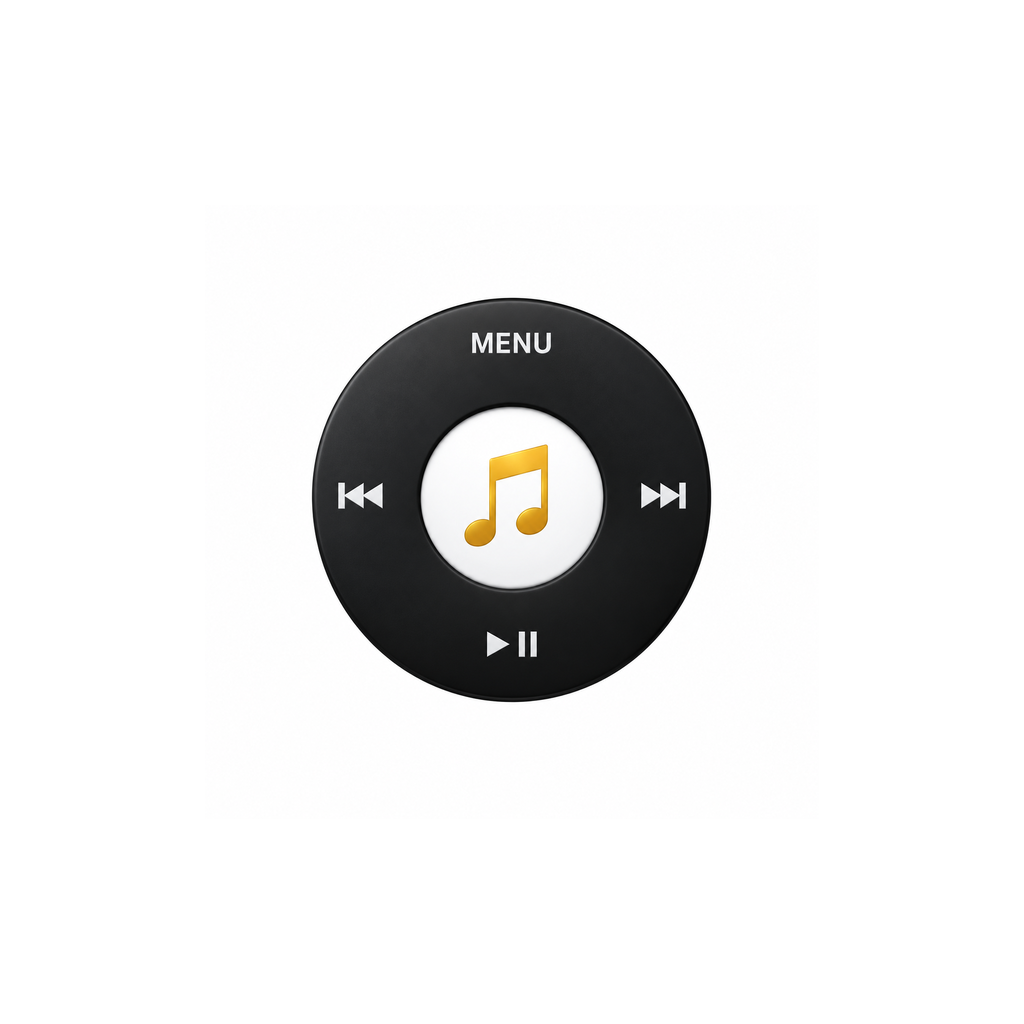
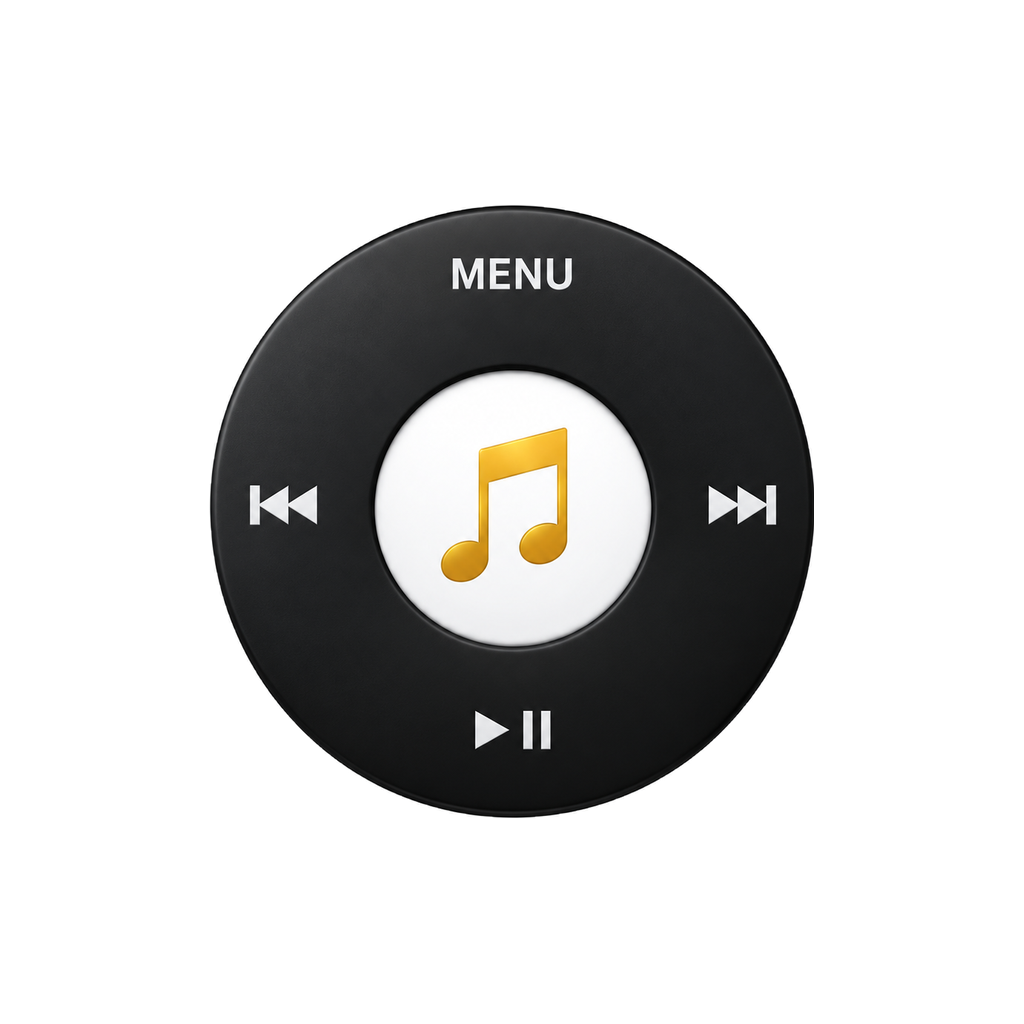
fix(brand): 修正图标抠图（PIL floodfill 的 thresh 语义导致背景未清除）
现象：开屏出现一块方形白框 —— 自适应前景/开屏图标的外层背景没有被抠掉。

根因：ImageDraw.floodfill 的 thresh 是相对**填充值**而不是种子值，
种子 255、填充值 128、thresh 70 时区间为 58..198，掩膜里只有 0/255，
于是**一个像素都没填充**（实测填充数 = 0），背景原样保留。

改为自己实现「与边界连通的浅色区域」提取：候选 = luma > 198，
做形态学重建（迭代膨胀 ∩ 候选）直到收敛；为免上千次全尺寸迭代，
在 1/4 分辨率上收敛后再放回全分辨率并用亮度约束收边。

校验：开屏图不透明像素占画布 66.2%（= 直径 92% 的圆面积），前景图 28.1%
（= 直径 60% 的圆面积），四角 alpha 均为 0 —— 是圆而不是方框。

Changed region(s): [[0.1875, 0.1875, 0.8125, 0.8125]]

diff --git a/scripts/prepare-app-icon.py b/scripts/prepare-app-icon.py
@@ -36,24 +36,59 @@ FOREGROUND_RATIO = 0.60
 SPLASH_RATIO = 0.92
 
 
+def _luma(rgb: np.ndarray) -> np.ndarray:
+    return 0.299 * rgb[..., 0] + 0.587 * rgb[..., 1] + 0.114 * rgb[..., 2]
+
+
+def outer_background_mask(rgb: np.ndarray, scale: int = 4) -> np.ndarray:
+    """求「与画布边界连通的浅色背景」掩膜。
+
+    不能用 PIL 的 ImageDraw.floodfill：它的 thresh 是相对**填充值**而不是种子值
+    （实测填充 0 像素）。这里用形态学重建（迭代膨胀 ∩ 候选）自己实现，
+    并在 1/scale 分辨率上做，避免上千次全尺寸迭代。
+    """
+    h, w = rgb.shape[:2]
+    lum = _luma(rgb)
+    small = np.asarray(
+        Image.fromarray(lum.astype(np.uint8), mode="L").resize(
+            (max(1, w // scale), max(1, h // scale)), Image.BILINEAR
+        )
+    ).astype(np.float32)
+    cand = small > 198
+
+    cur = np.zeros_like(cand)
+    cur[0, :] |= cand[0, :]
+    cur[-1, :] |= cand[-1, :]
+    cur[:, 0] |= cand[:, 0]
+    cur[:, -1] |= cand[:, -1]
+    while True:
+        nxt = cur.copy()
+        nxt[1:, :] |= cur[:-1, :]
+        nxt[:-1, :] |= cur[1:, :]
+        nxt[:, 1:] |= cur[:, :-1]
+        nxt[:, :-1] |= cur[:, 1:]
+        nxt &= cand
+        if np.array_equal(nxt, cur):
+            break
+        cur = nxt
+
+    grown = np.asarray(
+        Image.fromarray((cur * 255).astype(np.uint8), mode="L").resize((w, h), Image.NEAREST)
+    )
+    # 放回全分辨率后再用亮度约束一次，避免膨胀溢出到主体边缘
+    return (grown > 127) & (lum > 190)
+
+
 def cut_out_background(img: Image.Image) -> Image.Image:
-    """把从画布边缘连通的白色背景抠成透明（内部白色保持不变）。"""
+    """把与画布边缘连通的浅色背景（含柔和投影）抠成透明，内部白色一律保留。"""
     rgba = img.convert("RGBA")
-    arr = np.asarray(rgba).astype(np.int16)
-    near_white = (arr[..., :3].min(axis=2) > 242).astype(np.uint8) * 255
+    arr = np.asarray(rgba)
+    outside = outer_background_mask(arr[..., :3].astype(np.float32))
 
-    mask = Image.fromarray(near_white, mode="L")
-    # 从四角泛洪，只标记与外边界连通的白色区域
-    for xy in ((0, 0), (mask.width - 1, 0), (0, mask.height - 1), (mask.width - 1, mask.height - 1)):
-        ImageDraw.floodfill(mask, xy, 128, thresh=12)
-
-    outside = np.asarray(mask) == 128
-    alpha = np.asarray(rgba).copy()
-    alpha[..., 3] = np.where(outside, 0, 255).astype(np.uint8)
-    out = Image.fromarray(alpha, mode="RGBA")
-    # 边缘做一点点羽化，避免锯齿
-    a = out.split()[3].filter(ImageFilter.GaussianBlur(0.7))
-    out.putalpha(a)
+    out_arr = arr.copy()
+    out_arr[..., 3] = np.where(outside, 0, 255).astype(np.uint8)
+    out = Image.fromarray(out_arr, mode="RGBA")
+    out.putalpha(out.split()[3].filter(ImageFilter.GaussianBlur(0.8)))
     return out
 
 
